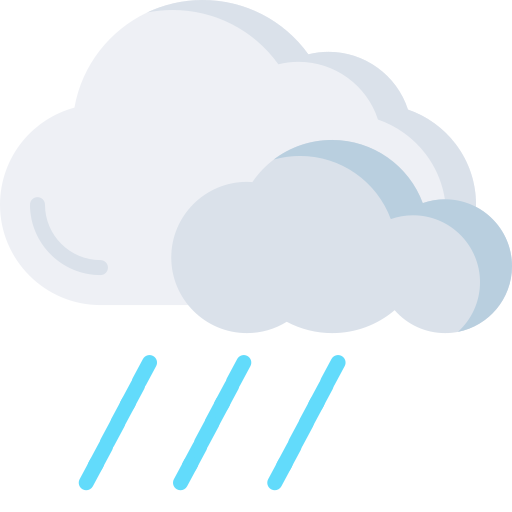
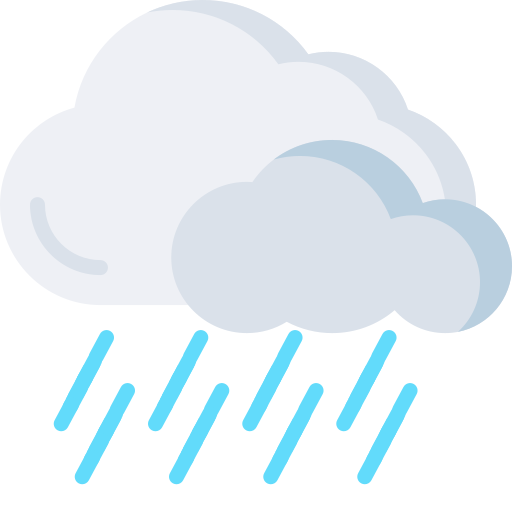
adicionado descrição de 'chuva moderada'

diff --git a/src/app/api/home.ts b/src/app/api/home.ts
@@ -88,6 +88,8 @@ export const getWeatherData = async (): Promise<WeatherData> => {
         ? 'Núvens dispersas'
         : description === 'light rain'
         ? 'Chuva leve'
+        : description === 'moderate rain'
+        ? 'Chuva moderada'
         : description === 'broken clouds'
         ? 'Núvens fragmentadas'
         : description === 'clear sky'
@@ -105,6 +107,8 @@ export const getWeatherData = async (): Promise<WeatherData> => {
           ? 'cloudy.png'
           : description === 'light rain'
           ? 'light-rain.png'
+          : description === 'moderate-rain'
+          ? 'rain.png'
           : description === 'clear sky'
           ? 'clear.png'
           : description === 'few clouds'
